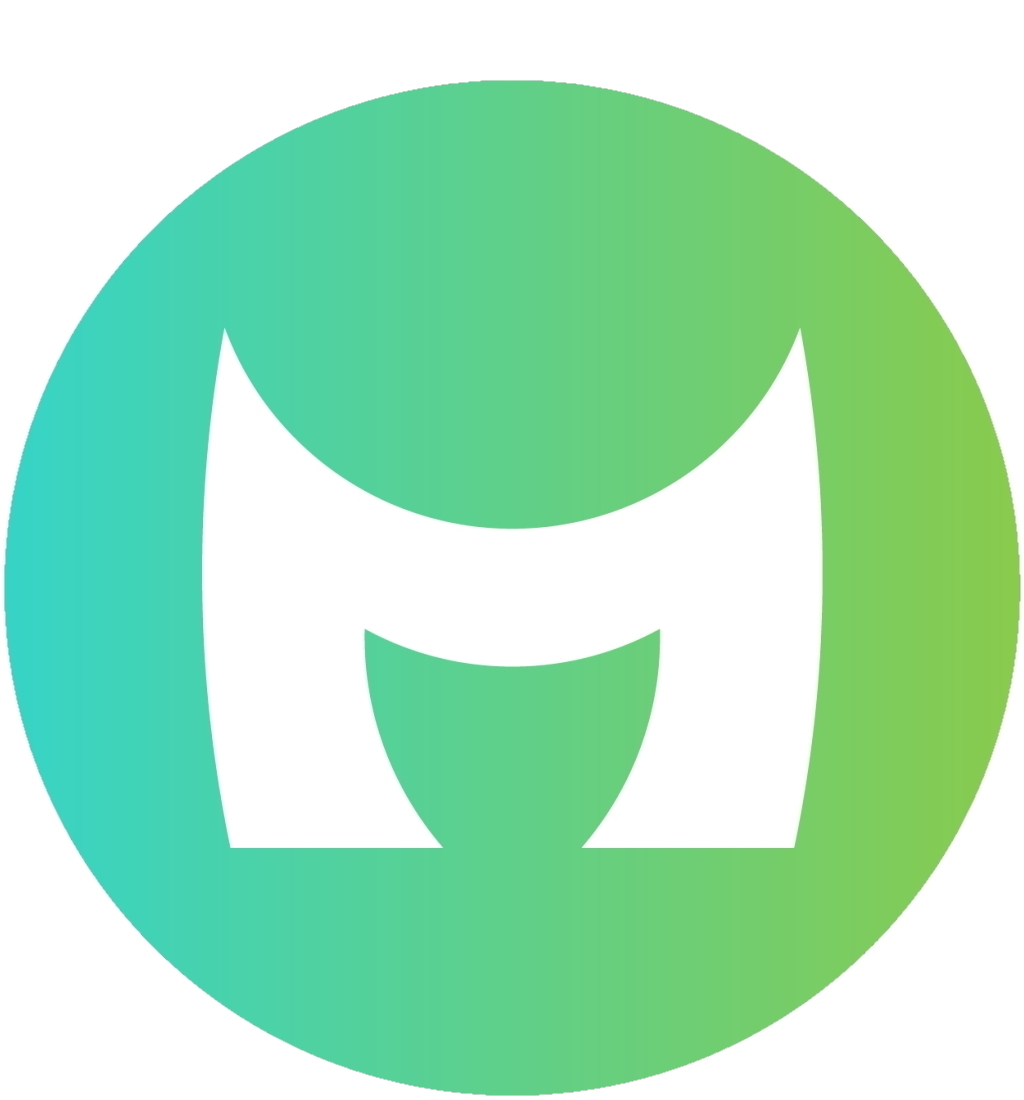
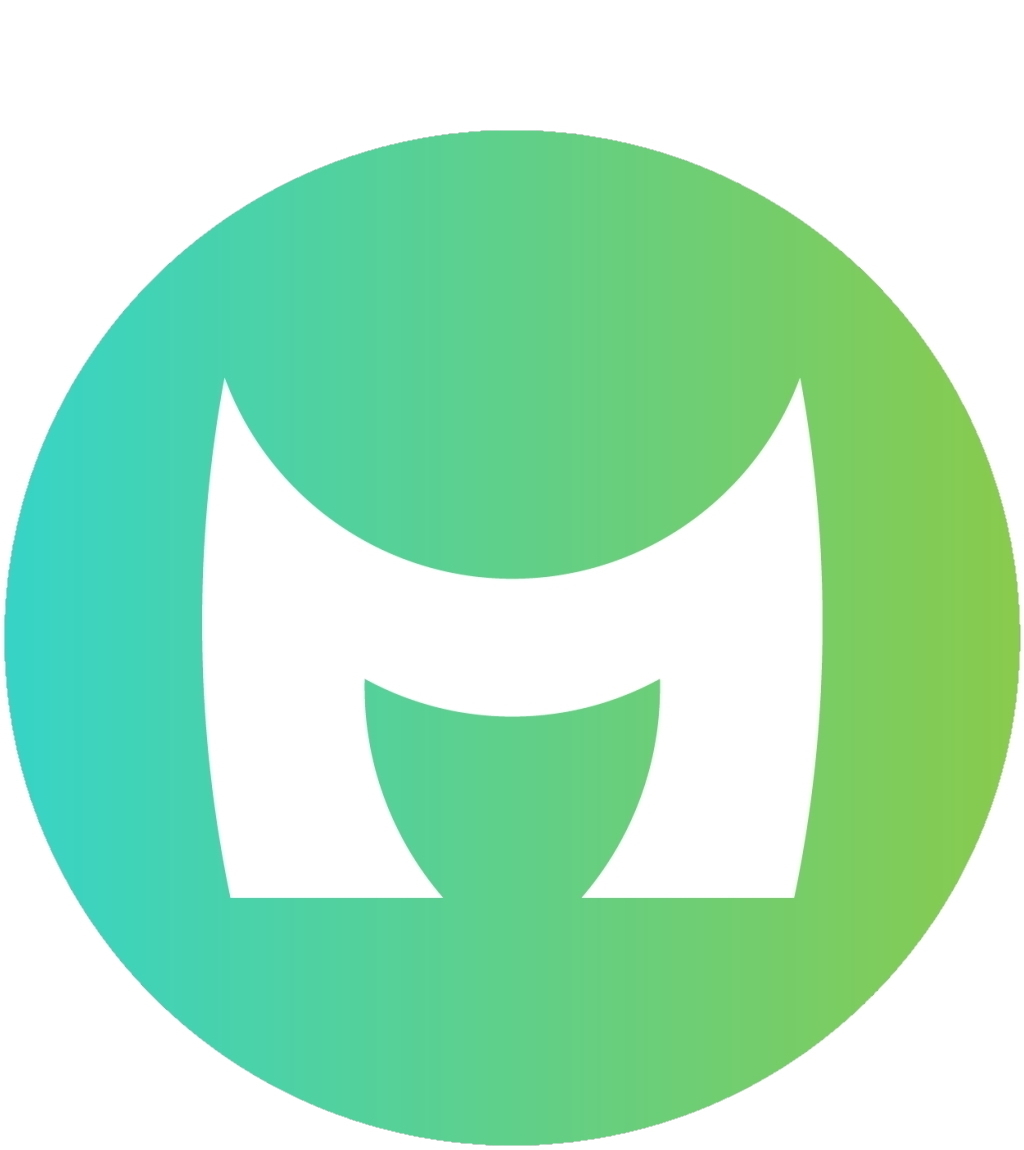
Add files via upload

diff --git a/index.html b/index.html
@@ -16,7 +16,7 @@
 				<!-- Main -->
 					<div id="main">
 						<div class="inner">
- <img src="morlen.jpg" alt="Morlen" style="width:81px;height:85px;"> 
+ <img src="morlen.jpg" alt="Morlen" style="width:80px;height:80px;"> 
 <!-- <ul class="contact">
 									<strong>
 										<li class="icon solid fa-envelope"><a href="mailto:%20hkfeyf8f@anonaddy.me">hkfeyf8f@anonaddy.me</a></strong#"></a></li>

diff --git a/esoteric.html b/esoteric.html
@@ -13,7 +13,7 @@
 			<!-- Main -->
 					<div id="main">
 						<div class="inner">
- <img src="morlen.jpg" alt="Morlen" style="width:81px;height:81px;"> 
+ <img src="morlen.jpg" alt="Morlen" style="width:80px;height:80px;"> 
 
  <i class="icon solid fa-envelope"></i>
 <b><a href="mailto:%20hkfeyf8f@anonaddy.me"> hkfeyf8f@anonaddy.me</a></b>
